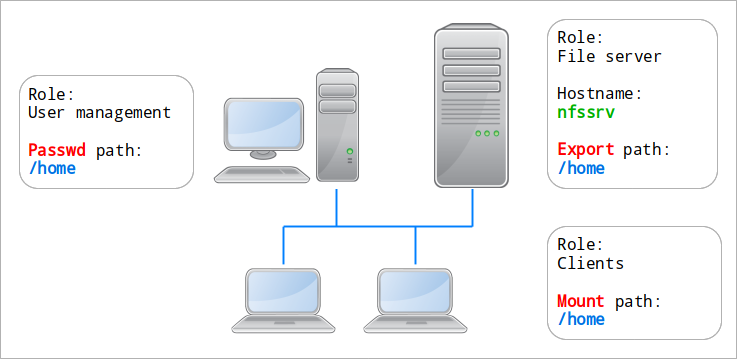
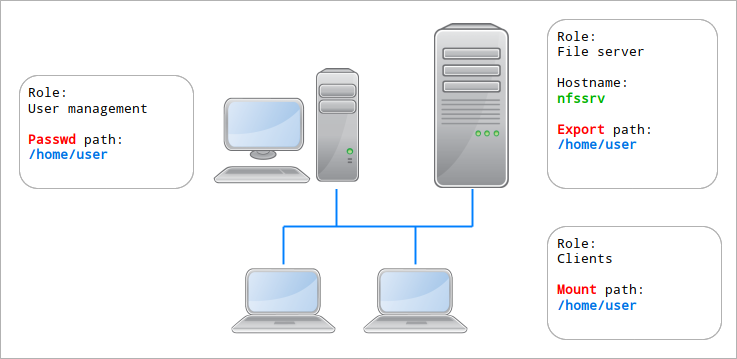
[doc] Updated to the homepaths explanations

diff --git a/docs/hes_homepaths.rst b/docs/hes_homepaths.rst
@@ -1,6 +1,6 @@
 
-The problem of the multiple home paths
-======================================
+The problem with the multiple home paths
+========================================
 
 When generating Hesiod ``passwd`` and ``FILSYS`` records, an interesting problem arises: the possible existence of different home paths.
 
@@ -8,6 +8,8 @@ When generating Hesiod ``passwd`` and ``FILSYS`` records, an interesting problem
 Let's have a look at an entry from ``/etc/passwd`` on the management system::
 
     joe:x:5000:5000:,,,:/home/joe:/bin/bash
+                        ^^^^^^^^^
+                        home path
 
 The 6th field, just before the shell, is the user's home directory: ``/home/joe``. It's assumed to exist and be valid on that local system.
 
@@ -15,6 +17,8 @@ The 6th field, just before the shell, is the user's home directory: ``/home/joe`
 If we translate it directly to a Hesiod record, we get this::
 
     joe.passwd      TXT    "joe:x:5000:5000:,,,:/home/joe:/bin/bash"
+                                                ^^^^^^^^^
+                                    home path on the management system
 
 
 Here comes the first problem: *the home path may not be the same on the client systems*!
@@ -24,6 +28,8 @@ There can be multiple causes for that. The most common one is that the homes are
 This means that the Hesiod ``passwd`` record may need to contain a home path that's different from the entry in the management's ``/etc/passwd`` file. This may look like this::
 
     joe.passwd      TXT    "joe:x:5000:5000:,,,:/nfs/home/joe:/bin/bash"
+                                                ^^^^^^^^^^^^^
+                                       home path on the client systems
 
 
 Then, an NFS mount (or any other network FS) means an export path as well as a mount path. Very often the whole home directory root will be mounted at boot on the clients via ``fstab`` or ``systemd-mount``, and in that case there's nothing to worry about. But if you want to have automounting based on FILSYS records, there's a third possible path: the export path for that user.
@@ -31,8 +37,12 @@ Then, an NFS mount (or any other network FS) means an export path as well as a m
 If we have a look at a sample FILSYS record, we can see two different paths::
 
     joe.filsys      TXT    "NFS /export/home/joe nfssrv rw /nfs/home/joe"
+                                ^^^^^^^^^^^^^^^^           ^^^^^^^^^^^^^
+                                NFS export path           NFS mount point
 
 The first one is the export path on the NFS server, and the second one is the mount point on the client system.
+
+To avoid making things even more complex, we'll assume that for per-user FILSYS records the NFS mount point is the home path on the client system. It may not be, in which case you would need to write your own custom FILSYS records.
 
 
 Altogether, there are three separate home paths involved in the Hesutils model:
@@ -41,7 +51,7 @@ Altogether, there are three separate home paths involved in the Hesutils model:
 
 - the **export path** on the network FS server for that user, used in FILSYS records only;
 
-- and the **mount path**, which is the home path of the user on the client system.
+- and the **mount path**, which is both the home path of the user on the client system, and the mount point of the FILSYS record for that user.
 
 
 The *passwd path* and the *mount path* are always present, regardless of whether FILSYS records are generated. The *export path* only exists in FILSYS records.
@@ -61,7 +71,7 @@ At the other extreme, all three paths may be different:
     :align: center
 
 
-The Hesutils provide powerful, sophisticated, multi-layered, flexible, software-defined, user-extensible and grossly overkill mechanisms of home path modifications. Those can generate the export and mount paths from the home paths, or replace them with arbitrary values.
+The Hesutils provide powerful, sophisticated, multi-layered, flexible, software-defined, user-extensible and grossly overkill mechanisms of home path modification. Those can generate the export and mount paths by modifying the passwd paths, or replace them with arbitrary values.
 
 As the non-FILSYS case is a slightly simpler version of the FILSYS case, both are documented in `FILSYS records <hes_filsys.rst>`__.
 
